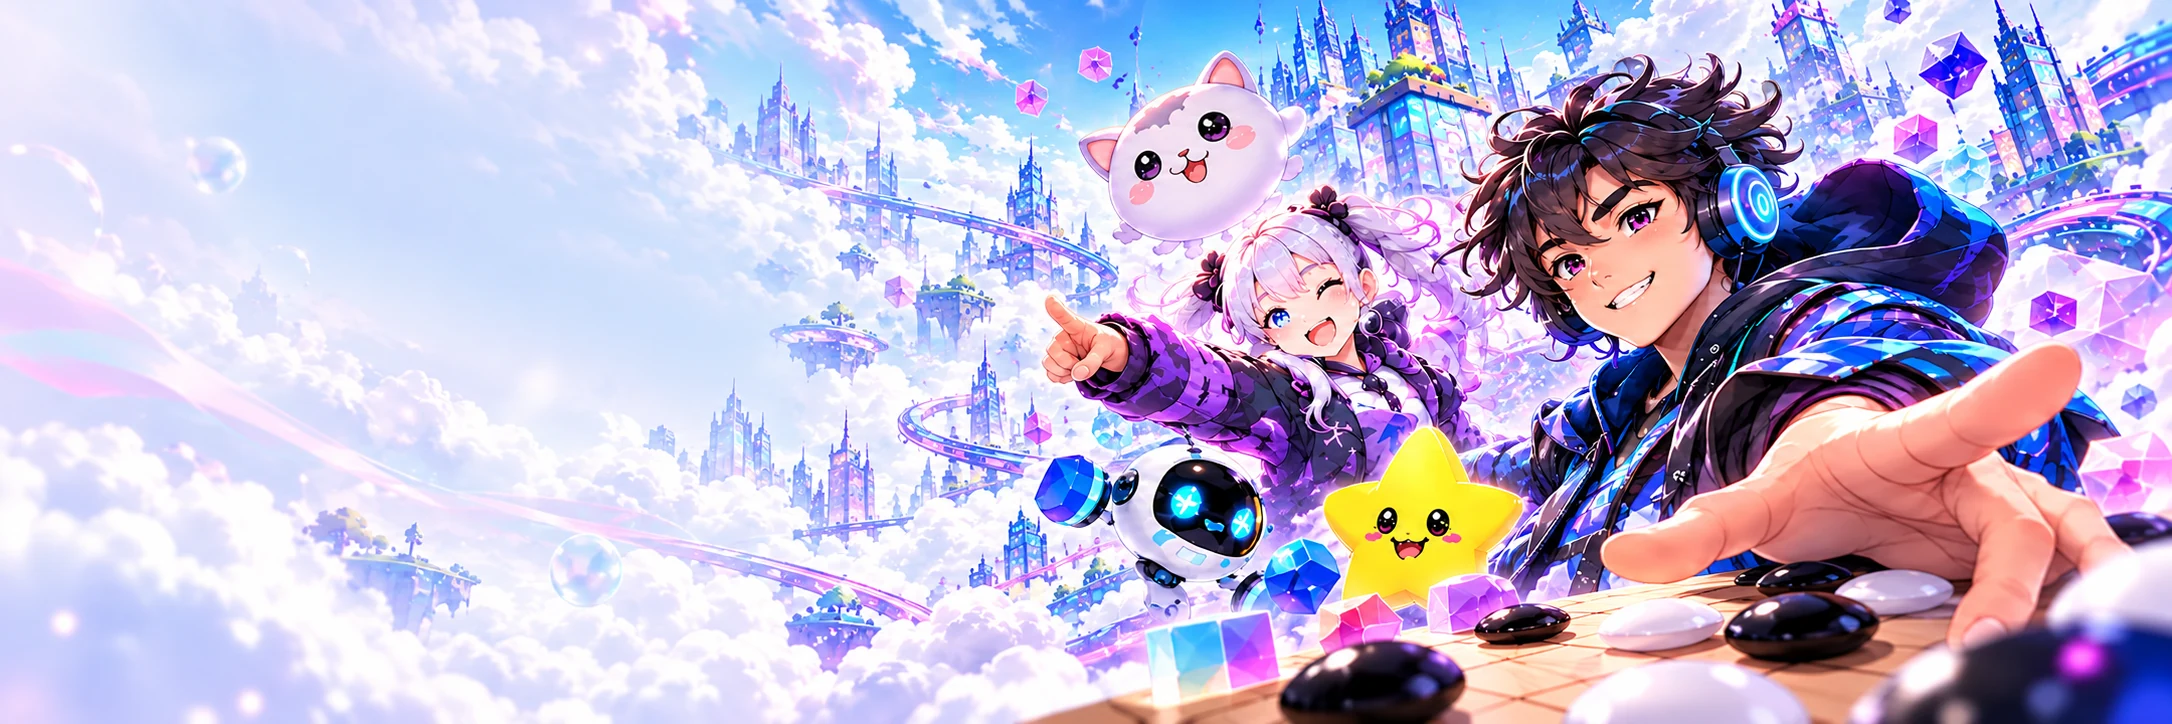
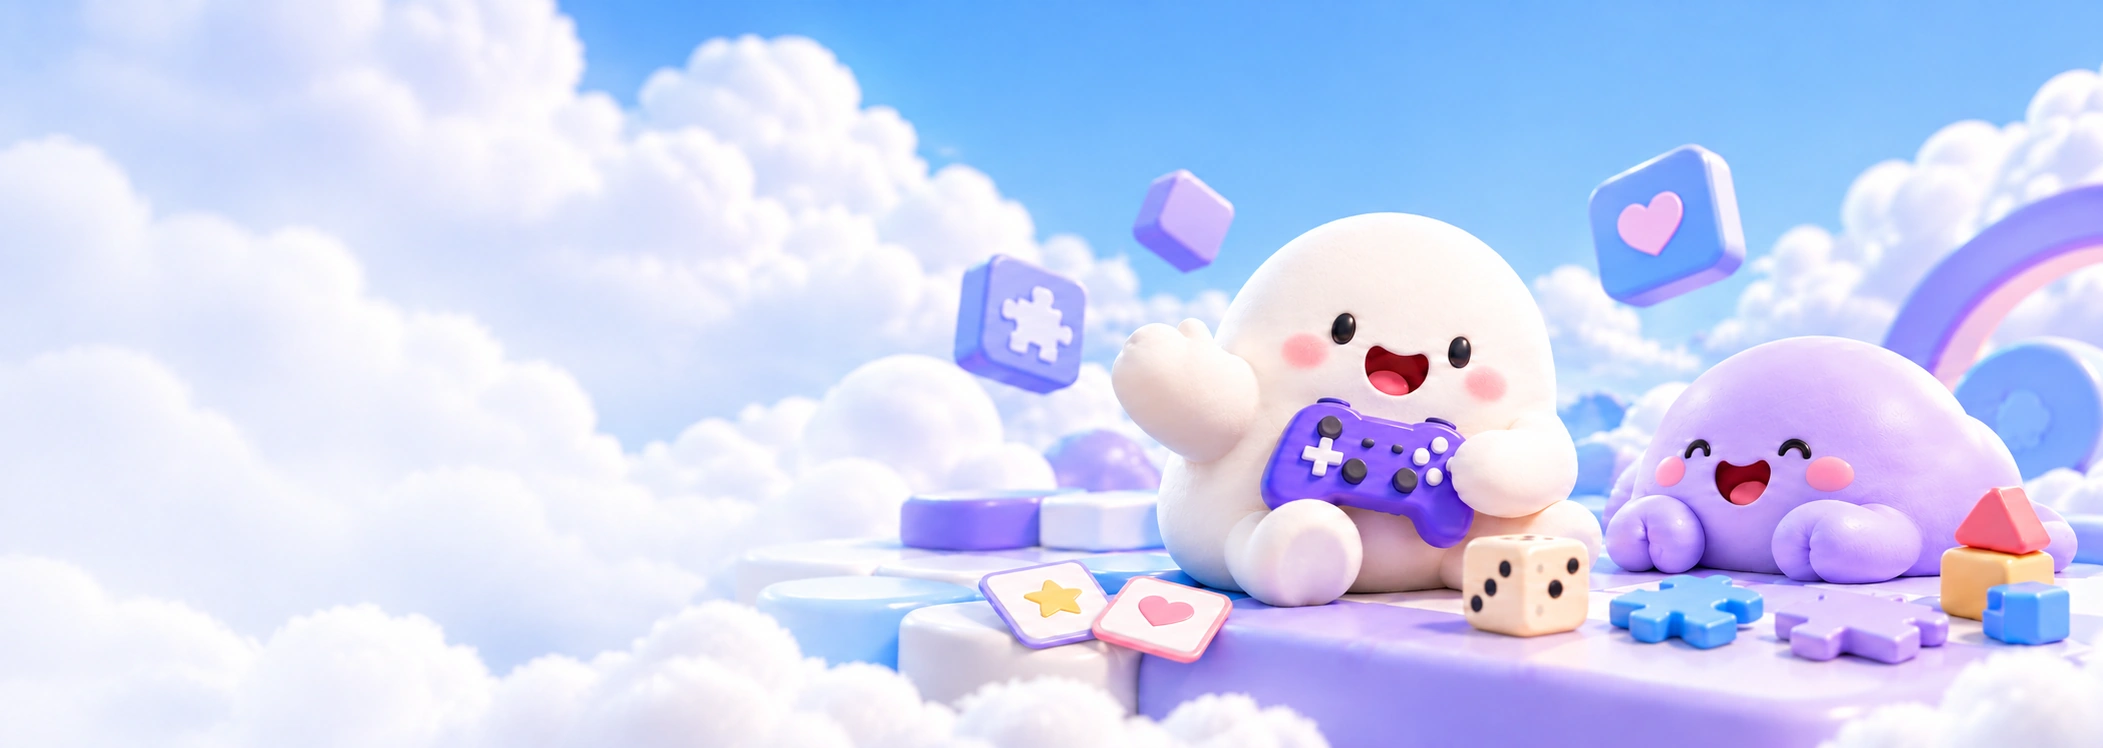
배너 이미지 변경

diff --git a/src/app/_components/lobby/lobby.module.css b/src/app/_components/lobby/lobby.module.css
@@ -335,38 +335,47 @@
 }
 
 /* HTML 문구와 배너 삽화를 분리하고 폭에 따라 그라데이션을 조절하여 모바일에서도 제목 대비를 확보한다. */
+/* 배너 자체의 폭을 기준으로 글자를 조절해 채팅 열 유무와 초고해상도 화면에서도 원본 구도를 유지한다. */
 .hero {
   position: relative;
   display: flex;
   align-items: center;
-  min-height: clamp(280px, 18.5vw, 450px);
+  /* 최소 높이와 가로세로 비율이 태블릿에서 부모보다 큰 자동 너비를 만들지 않도록 폭을 고정한다. */
+  width: 100%;
+  min-height: clamp(300px, 20vw, 535px);
+  aspect-ratio: 3.85;
+  container-type: inline-size;
   overflow: hidden;
   border: 1.5px solid #ffffffed;
   border-radius: 1.35em;
-  background: #e7e5ff;
+  background: #f0f1ff;
   box-shadow: 0 8px 26px #7b7ae31a;
+}
+.heroArtwork {
+  position: absolute;
+  inset: 0;
+  pointer-events: none;
 }
 .heroArt {
   object-fit: cover;
-  object-position: center;
+  object-position: center 54%;
 }
 .heroShade {
   position: absolute;
   inset: 0;
   background: linear-gradient(
     90deg,
-    #eef0fff5,
-    #eef3ffbd 32%,
-    #eaf2ff26 52%,
-    transparent 65%
+    #f0f1ffb3,
+    #f0f1ff59 30%,
+    #f0f1ff00 48%
   );
   pointer-events: none;
 }
 .heroCopy {
   position: relative;
   z-index: 1;
-  max-width: 65%;
-  padding: 2em 3em;
+  max-width: 56%;
+  padding: clamp(28px, 2.6cqi, 56px) clamp(24px, 4cqi, 82px);
 }
 .heroEyebrow {
   display: flex;
@@ -374,7 +383,7 @@
   gap: 0.65em;
   margin: 0 0 0.8em;
   color: #6c53b9;
-  font-size: 0.62em;
+  font-size: clamp(10px, 0.74cqi, 15px);
   font-weight: 800;
   letter-spacing: 0.18em;
 }
@@ -388,11 +397,10 @@
 .hero h1 {
   margin: 0;
   color: #100b4d;
-  font-size: clamp(2.4em, 3.25vw, 4.4em);
-  font-style: italic;
-  font-weight: 950;
-  letter-spacing: -0.07em;
-  line-height: 1.1;
+  font-size: clamp(2rem, 4.05cqi, 5.2rem);
+  font-weight: 900;
+  letter-spacing: -0.065em;
+  line-height: 1.15;
 }
 .hero h1 > span {
   display: inline-block;
@@ -405,7 +413,7 @@
 .heroDescription {
   margin: 0.75em 0 1.1em;
   color: #55548e;
-  font-size: 1em;
+  font-size: clamp(14px, 1.22cqi, 23px);
   font-weight: 600;
   letter-spacing: -0.035em;
   line-height: 1.65;
@@ -440,28 +448,8 @@
   width: 1.35em;
   height: 1.35em;
 }
-.bannerLabel {
-  position: absolute;
-  right: 1.5em;
-  bottom: 1.1em;
-  display: flex;
-  align-items: center;
-  gap: 0.7em;
-  padding: 0.5em 0.85em;
-  border: 1px solid #ffffff5c;
-  border-radius: 3em;
-  background: #4740ac30;
-  color: white;
-  font-size: 0.55em;
-  font-weight: 700;
-  letter-spacing: 0.12em;
-  backdrop-filter: blur(8px);
-}
-.bannerLabel > span {
-  width: 0.5em;
-  height: 0.5em;
-  border-radius: 50%;
-  background: #f5e3ff;
+.hero .primaryButton {
+  font-size: clamp(14px, 1.25cqi, 23px);
 }
 
 .categories {
@@ -1256,9 +1244,6 @@
 
 /* 5K까지 콘텐츠 최대 폭과 유동 크기를 사용하고, 중간 화면에서는 카드 열 수와 헤더 배치를 단계적으로 줄인다. */
 @media (min-width: 2200px) {
-  .heroCopy {
-    padding: 2.5em 3.5em;
-  }
   .gameGrid {
     grid-template-columns: repeat(6, minmax(0, 1fr));
   }
@@ -1276,9 +1261,6 @@
   }
   .gameGrid {
     grid-template-columns: repeat(5, minmax(0, 1fr));
-  }
-  .heroCopy {
-    padding-inline: 2em;
   }
   .category {
     flex-basis: 5.5em;
@@ -1302,15 +1284,6 @@
   .gameGrid {
     grid-template-columns: repeat(4, minmax(0, 1fr));
   }
-  .hero h1 {
-    font-size: 2.8em;
-  }
-  .heroDescription {
-    font-size: 0.9em;
-  }
-  .heroCopy {
-    max-width: 80%;
-  }
 }
 
 @media (max-width: 1149px) {
@@ -1319,12 +1292,6 @@
   }
   .desktopChat {
     display: none;
-  }
-  .hero {
-    min-height: clamp(285px, 30vw, 360px);
-  }
-  .hero h1 {
-    font-size: clamp(2.6em, 4.8vw, 3.6em);
   }
   .gameGrid {
     grid-template-columns: repeat(5, minmax(0, 1fr));
@@ -1398,15 +1365,6 @@
     width: 2.7em;
     height: 2.7em;
   }
-  .hero {
-    min-height: 290px;
-  }
-  .heroCopy {
-    padding: 1.7em 2em;
-  }
-  .hero h1 {
-    font-size: clamp(2.65em, 5.4vw, 3.3em);
-  }
   .gameGrid {
     grid-template-columns: repeat(4, minmax(0, 1fr));
   }
@@ -1453,44 +1411,42 @@
     width: min(20em, calc(100vw - 28px));
   }
   .hero {
-    align-items: flex-end;
-    min-height: 355px;
+    /* 캐릭터는 위쪽 삽화에, 실제 문구와 버튼은 아래쪽 본문에 배치해 얼굴과 터치 영역을 함께 확보한다. */
+    display: block;
+    min-height: 0;
+    padding-top: clamp(230px, 62vw, 340px);
+    aspect-ratio: auto;
     border-radius: 1.25em;
   }
+  .heroArtwork {
+    bottom: auto;
+    height: clamp(260px, 70vw, 380px);
+  }
   .heroArt {
-    object-position: 66% center;
+    object-position: 95% center;
   }
   .heroShade {
-    background:
-      linear-gradient(90deg, #eef0ffb3, #eef0ff1a),
-      linear-gradient(0deg, #edf0fff5, #edf1ffc4 50%, #edf1ff00 90%);
+    background: linear-gradient(0deg, #f0f1ff 40%, #f0f1ff00 58%);
   }
   .heroCopy {
     max-width: 100%;
-    padding: 1.5em 1.4em;
+    padding: 24px 22px 28px;
   }
   .heroEyebrow {
     margin-bottom: 0.9em;
-    font-size: 0.55em;
+    font-size: 10px;
   }
   .hero h1 {
-    font-size: clamp(2.4em, 8.8vw, 3.3em);
+    font-size: clamp(2rem, 8.8cqi, 3.3rem);
   }
   .heroDescription {
     margin: 0.8em 0 1.25em;
-    font-size: max(12px, 0.78em);
+    font-size: clamp(14px, 3.6cqi, 18px);
     line-height: 1.8;
   }
   .primaryButton {
     min-height: 3.1em;
     font-size: 0.9em;
-  }
-  .bannerLabel {
-    top: 1em;
-    right: 1em;
-    bottom: auto;
-    max-width: calc(100% - 2em);
-    font-size: 0.46em;
   }
   .categories {
     gap: 0.35em;

diff --git a/src/app/_components/lobby/hero-banner.tsx b/src/app/_components/lobby/hero-banner.tsx
@@ -1,4 +1,5 @@
 import Image from "next/image";
+import bannerArtwork from "../../../../public/images/lobby/playground-banner.webp";
 import { LobbyIcon } from "./lobby-icon";
 import styles from "./lobby.module.css";
 
@@ -6,15 +7,19 @@ import styles from "./lobby.module.css";
 export function HeroBanner({ onBrowse }: { onBrowse: () => void }) {
   return (
     <section className={styles.hero} aria-labelledby="lobby-title">
-      <Image
-        className={styles.heroArt}
-        src="/images/lobby/playground-banner.webp"
-        alt="푸른 게임 도시에서 반갑게 손을 내미는 플레이그라운드 캐릭터들"
-        fill
-        sizes="(min-width: 2560px) 2060px, (min-width: 1150px) 76vw, 100vw"
-        preload
-      />
-      <div className={styles.heroShade} />
+      {/* 정적 이미지의 콘텐츠 해시로 교체 이력을 캐시에 반영하고, 모바일의 확대된 삽화에도 충분한 해상도를 제공한다. */}
+      <div className={styles.heroArtwork}>
+        <Image
+          className={styles.heroArt}
+          src={bannerArtwork}
+          alt="파스텔 구름 위에서 보라색 게임패드를 들고 손을 흔드는 하얀 캐릭터와 웃는 보라색 친구"
+          fill
+          sizes="(min-width: 2560px) 2060px, (min-width: 1150px) 76vw, (max-width: 600px) 1080px, 100vw"
+          quality={95}
+          preload
+        />
+      </div>
+      <div className={styles.heroShade} aria-hidden="true" />
       <div className={styles.heroCopy}>
         <p className={styles.heroEyebrow}>
           <span /> PLAY, CONNECT &amp; ENJOY
@@ -39,9 +44,6 @@ export function HeroBanner({ onBrowse }: { onBrowse: () => void }) {
           게임 둘러보기
           <LobbyIcon name="arrow" />
         </button>
-      </div>
-      <div className={styles.bannerLabel}>
-        <span /> OUR PLAYGROUND, YOUR PLAYTIME
       </div>
     </section>
   );
